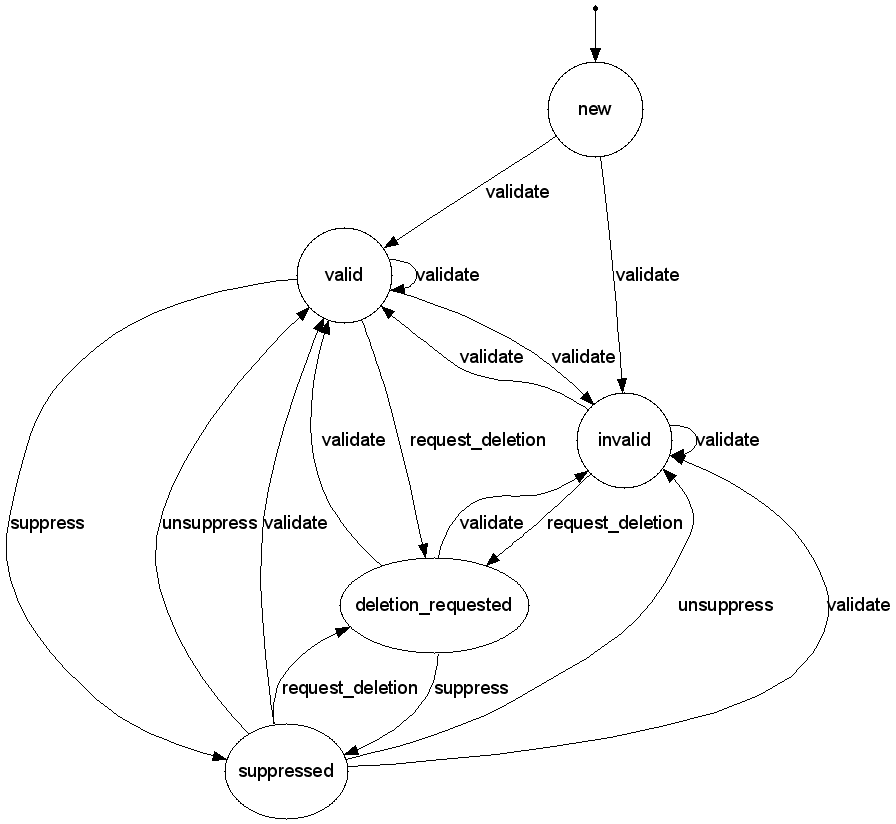
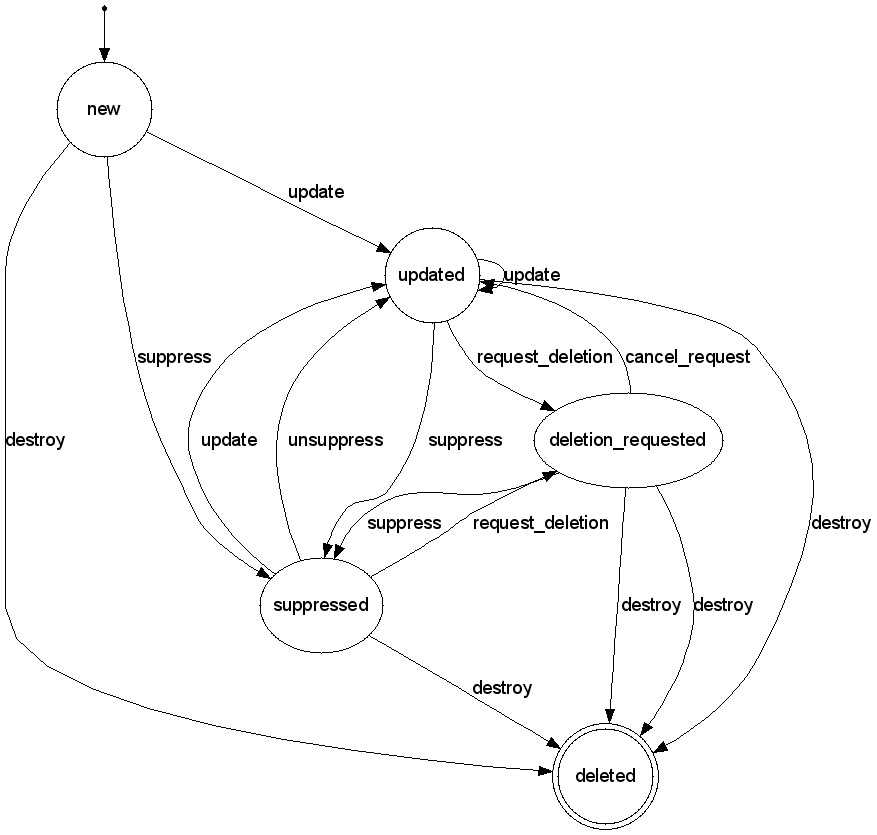
More appropriately reflects Rails' object lifecycle

diff --git a/archival_object.rb b/archival_object.rb
@@ -3,24 +3,31 @@ require 'state_machine'
 class ArchivalObject
   
   state_machine :initial => :new do
-    event :validate do
-      transition all => :valid, :if => :valid?
-      transition all => :invalid
+    event :update do
+      transition all - [:deleted, :deletion_requested] => :updated, :if => :valid?
     end
     
     event :suppress do
-      transition all - [:new, :invalid, :suppressed] => :suppressed
+      transition all - [:suppressed, :deleted] => :suppressed
     end
     
     event :unsuppress do
-      transition :suppressed => :valid, :if => :valid?
-      transition :suppressed => :invalid
+      transition :suppressed => :updated
     end
     
     event :request_deletion do
-      transition all - [:new, :deletion_requested] => :deletion_requested
+      transition all - [:new, :deleted, :deletion_requested] => :deletion_requested
     end
-  
+    
+    event :cancel_request do
+      transition :deletion_requested => :updated
+    end
+    
+    event :destroy do
+      transition all - [:deleted] => :deleted, :if => :user_is_admin?
+      transition :deletion_requested => :deleted, :if => :user_can_delete?
+    end
+    
     state all - [:deletion_requested] do
       def deletable?
         false
@@ -34,8 +41,4 @@ class ArchivalObject
     end
     
   end
-
-  def valid?
-  end
-  
 end
